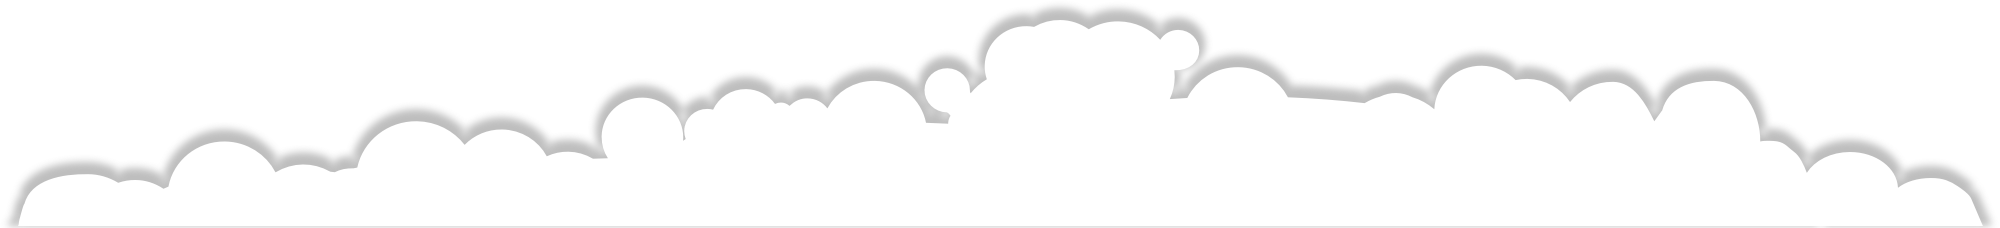
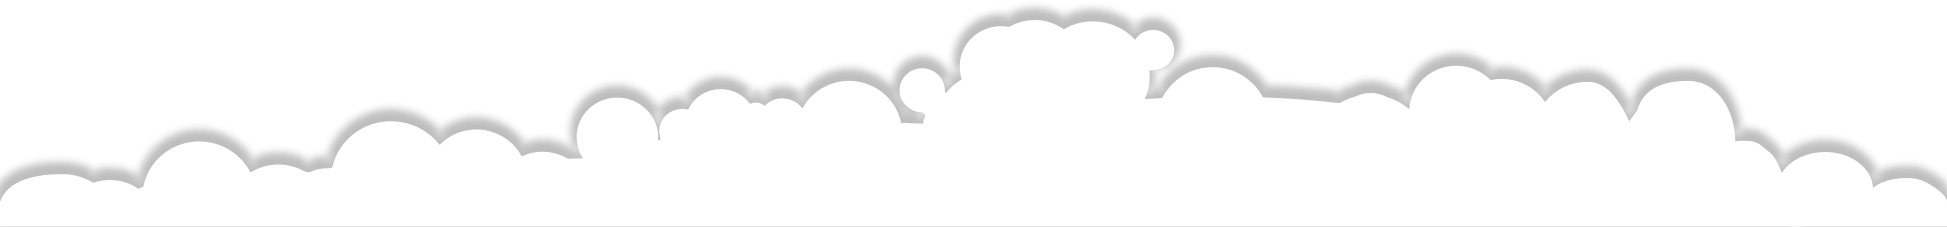
fix sails rotate position

diff --git a/src/scss/pages/home.scss b/src/scss/pages/home.scss
@@ -21,6 +21,7 @@
     left: 0;
     top: 0;
     text-align: center;
+    width: 100%;
 }
 
 .layer img {
@@ -30,19 +31,17 @@
 
 
 .sails {
-    animation: spin 6s linear infinite;
-    transform-origin: center;
-    position: absolute;
-    display: block;
+    animation: spin 10s linear infinite;
+    transform-origin: 50% 60.38%;
     width: 100%;
 }
 
 @keyframes spin {
     0% {
-        transform: rotate(0deg);
+        transform:  translateY(-100%) rotate(0deg);
     }
     100% {
-        transform: rotate(360deg);
+        transform:  translateY(-100%) rotate(360deg);
     }
 }
 

diff --git a/src/scss/footer.scss b/src/scss/footer.scss
@@ -5,7 +5,7 @@ footer {
     width: 100%;
 
     .footer_img {
-        background: repeat-x url('../images/footer_cloud.png') center top;
+        background: repeat-x url('../images/footer_cloud.png');
         background-size: 1200px;
         height: 120px;
     }
